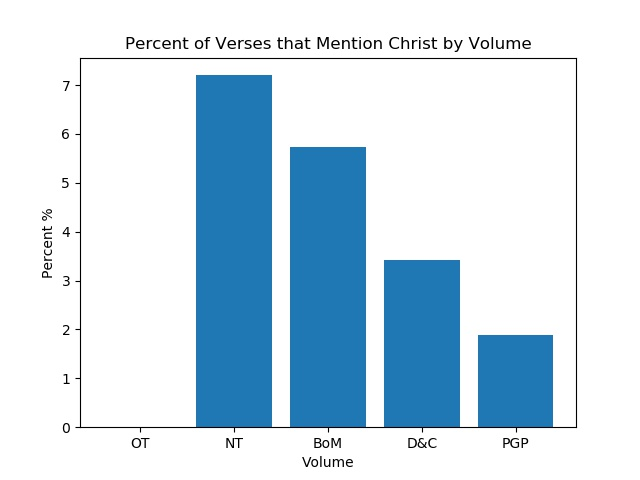
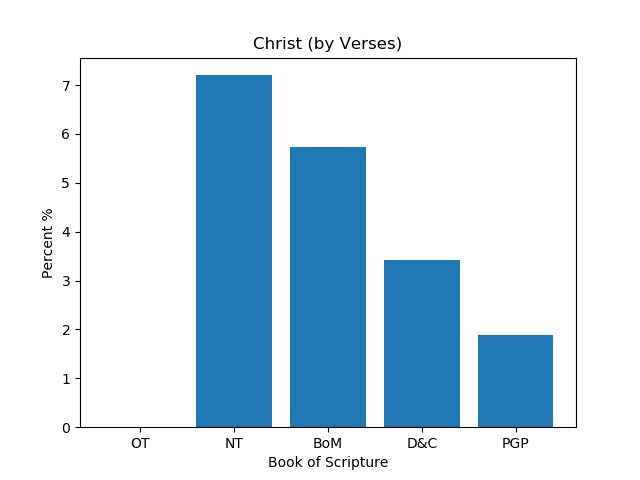
Specific pages defined

Changed region(s): [[0.1875, 0.0625, 0.8438, 0.125], [0.4062, 0.9375, 0.625, 1.0]]

diff --git a/templates/layout.html b/templates/layout.html
@@ -1,0 +1,32 @@
+<!DOCTYPE html>
+<html>
+  <body>
+    <header>
+      <div class="container">
+        <h1 class="logo">Scripture Word Count Comparison</h1>
+        <strong><nav>
+          <ul class="menu">
+            <li><a href="{{ url_for('home') }}">Home</a></li>
+            <li><a href="{{ url_for('atonement') }}">Atonement</a></li>
+            <li><a href="{{ url_for('titles') }}">Godly Titles</a></li>
+          </ul>
+        </nav></strong>
+      </div>
+    </header>
+    <h2>Enter The Word You Would Like To Search Below</h2>
+
+    {% from "_formhelpers.html" import render_field %}
+    <form method=post>
+        <dl>
+            {{ render_field(form.select) }}
+            <p>
+            {{ render_field(form.search) }}
+        </dl>
+        <p><input type=submit value=Search>
+    </form>
+    <div class="container">
+        {% block content %}
+        {% endblock %}
+    </div>
+  </body>
+</html>

diff --git a/templates/result.html b/templates/result.html
@@ -1,19 +1,7 @@
-<!DOCTYPE html>
-<html>
-    <body>
-        <h1>Enter Your Search Term Below</h1>
-
-        {% from "_formhelpers.html" import render_field %}
-        <form method=post>
-            <dl>
-                {{ render_field(form.select) }}
-                <p>
-                {{ render_field(form.search) }}
-            </dl>
-            <p><input type=submit value=Search>
-        </form>
-
-        <h1>Search Result</h1>
+{% extends "layout.html" %}
+{% block content %}
+  <div class="search">
+        <h2>Search Result</h2>
         <img src="{{ result_graph }}" alt="Result Graph for User Search">
-    </body>
-</html>
+  </div>
+{% endblock %}

diff --git a/templates/home.html b/templates/home.html
@@ -1,0 +1,16 @@
+{% extends "layout.html" %}
+{% block content %}
+  <div class="home">
+    <h2>An Overview of Gospel Mentions in the Standard Works</h2>
+    <img src="static/visuals/faith-v.jpg">
+    <img src="static/visuals/repentance-v.jpg">
+    <img src="static/visuals/baptism-v.jpg">
+    <img src="static/visuals/ghost-v.jpg">
+    <img src="static/visuals/spirit-v.jpg">
+    <img src="static/visuals/endure-v.jpg">
+    <img src="static/visuals/charity-v.jpg">
+    <img src="static/visuals/salvation-v.jpg">
+    <img src="static/visuals/eternal-v.jpg">
+    <img src="static/visuals/life-v.jpg">
+  </div>
+{% endblock %}

diff --git a/templates/atonement.html b/templates/atonement.html
@@ -1,0 +1,15 @@
+{% extends "layout.html" %}
+{% block content %}
+  <div class="atonement">
+    <h2>An Overview of Terms Related to the Atonement in the Standard Works</h2>
+    <img src="static/visuals/atonement-v.jpg">
+    <img src="static/visuals/save-v.jpg">
+    <img src="static/visuals/love-v.jpg">
+    <img src="static/visuals/mercy-v.jpg">
+    <img src="static/visuals/justice-v.jpg">
+    <img src="static/visuals/redeem-v.jpg">
+    <img src="static/visuals/redemption-v.jpg">
+    <img src="static/visuals/charity-v.jpg">
+    <img src="static/visuals/sanctify-v.jpg">
+  </div>
+{% endblock %}

diff --git a/templates/resultold.html b/templates/resultold.html
@@ -1,7 +1,9 @@
 <!DOCTYPE html>
 <html>
     <body>
-        <h1>Enter Your Search Term Below</h1>
+        <a href="templates/index.html">Home</a>
+        <a href="templates/search.html">Search</a>
+        <h1>Enter The Word You Would Like To Search Below</h1>
 
         {% from "_formhelpers.html" import render_field %}
         <form method=post>
@@ -13,5 +15,7 @@
             <p><input type=submit value=Search>
         </form>
 
+        <h1>Search Result</h1>
+        <img src="{{ result_graph }}" alt="Result Graph for User Search">
     </body>
 </html>

diff --git a/templates/titles.html b/templates/titles.html
@@ -1,0 +1,14 @@
+{% extends "layout.html" %}
+{% block content %}
+  <div class="titles">
+    <h2>An Overview of Gospel Mentions in the Standard Works</h2>
+    <img src="static/visuals/jesus-v.jpg">
+    <img src="static/visuals/god-v.jpg">
+    <img src="static/visuals/father-v.jpg">
+    <img src="static/visuals/christ-v.jpg">
+    <img src="static/visuals/jehovah-v.jpg">
+    <img src="static/visuals/lord-v.jpg">
+    <img src="static/visuals/almighty-v.jpg">
+    <img src="static/visuals/son-v.jpg">
+  </div>
+{% endblock %}

diff --git a/app.py b/app.py
@@ -10,10 +10,8 @@ VISUALS_FOLDER = os.path.join('static', 'visuals')
 app = Flask(__name__)
 app.config['UPLOAD_FOLDER'] = VISUALS_FOLDER
 
-result_param_name = 'result'
-
 @app.route('/', methods=['GET','POST'])
-def index():
+def home():
     search = TermSearchForm(request.form)
     if request.method == 'POST':
         search_term = search.data['search']
@@ -21,7 +19,29 @@ def index():
         by_verse = select_choice == 'By Verses'
         res = make_visualization(search_term, by_verse)
         return redirect(url_for('result', res=res))
-    return render_template('index.html', form=search)
+    return render_template('home.html', form=search)
+
+@app.route('/atonement', methods=['GET','POST'])
+def atonement():
+    search = TermSearchForm(request.form)
+    if request.method == 'POST':
+        search_term = search.data['search']
+        select_choice = search.data['select']
+        by_verse = select_choice == 'By Verses'
+        res = make_visualization(search_term, by_verse)
+        return redirect(url_for('result', res=res))
+    return render_template('atonement.html', form=search)
+
+@app.route('/titles', methods=['GET','POST'])
+def titles():
+    search = TermSearchForm(request.form)
+    if request.method == 'POST':
+        search_term = search.data['search']
+        select_choice = search.data['select']
+        by_verse = select_choice == 'By Verses'
+        res = make_visualization(search_term, by_verse)
+        return redirect(url_for('result', res=res))
+    return render_template('titles.html', form=search)
 
 @app.route('/result', methods=['GET','POST'])
 def result():

diff --git a/makevisual.py b/makevisual.py
@@ -9,8 +9,10 @@ visualizations_folder = 'static/visuals/'
 
 def make_visualization(term: str, per_verse=True):
     term = term.lower()
+    term = term.split()[0]
+    term = term.strip()
     filename = term + '-{}.jpg'
-    title = 'Percent of {measurement} that Mention {term} by Volume'
+    title = '{term} (by {measurement})'
     if per_verse:
         title = title.format(measurement='Verses', term=term.title())
         filename = filename.format('v')
@@ -41,7 +43,7 @@ def make_visualization(term: str, per_verse=True):
     tick_label = [i[0] for i in info]
     plt.bar(x=x, height=h, tick_label=tick_label)
     plt.title(title)
-    plt.xlabel('Volume')
+    plt.xlabel('Book of Scripture')
     plt.ylabel('Percent %')
     plt.savefig(visualizations_folder + filename)
     plt.close()

diff --git a/freq_counter.py b/freq_counter.py
@@ -21,8 +21,8 @@ def run(vol_name):
     for book_name, book in volume.items():
         if book_name == 'meta':
             continue
-        for chapter_num, chapter in book.items():
-            for verse_num, verse in chapter.items():
+        for _, chapter in book.items():
+            for _, verse in chapter.items():
                 word_list = verse.lower().translate(trans_table).split()
                 for idx, word in enumerate(word_list):
                     if word not in stop_words:
